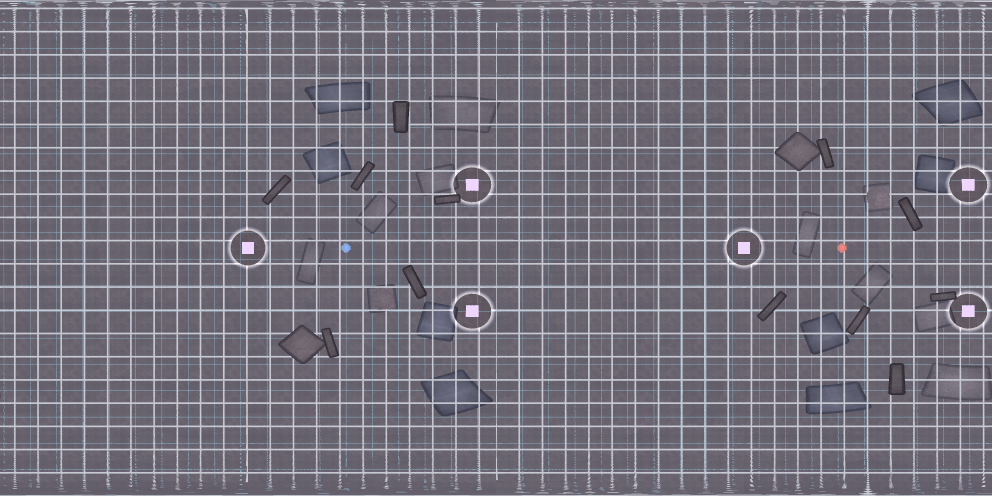
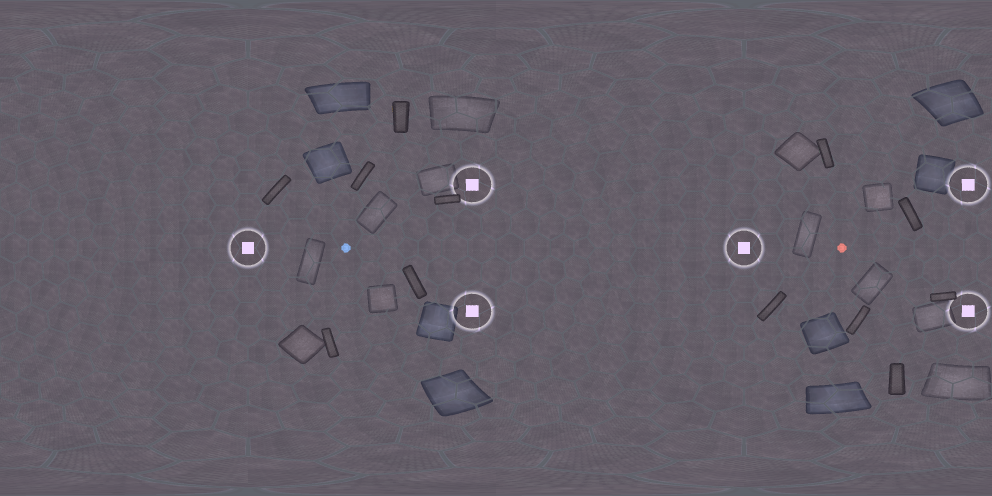
city_sphere_rust: hexagonal street and glass, dim frames, clearer glass, glowing terminals and LEDs (W-119, City Sphere demo)

Changed region(s): [[0.0, 0.0, 1.0, 1.0]]

diff --git a/demos/city_sphere_rust/src/render_city.rs b/demos/city_sphere_rust/src/render_city.rs
@@ -6,6 +6,7 @@
 //! Interface: `CityVertex`, `CityScene`, `build_scene`, `CityFrame`, `CityGpu`, `push_rounded_box`,
 //! `push_mesh`, `push_beam`, `MAX_HOLE_COUNT`.
 
+use std::collections::HashMap;
 use std::error::Error;
 use std::ptr::NonNull;
 use std::sync::Arc;
@@ -55,9 +56,27 @@ const NEAR_M: f32 = 0.05;
 const FAR_M: f32 = 200.0;
 const STREET_TILE_M: f64 = 4.0;
 const WALL_TILE_M: f64 = 3.0;
-const GLASS_CELL_M: f64 = 2.5;
-const SPHERE_LON_COUNT: usize = 128;
-const SPHERE_LAT_COUNT: usize = 64;
+const GLASS_FREQUENCY: usize = 7;
+const GLASS_SUBDIVISION_COUNT: usize = 2;
+const STREET_FREQUENCY: usize = 7;
+const STREET_SUBDIVISION_COUNT: usize = 3;
+const GLASS_KEY_PER_M: f64 = 1e6;
+const SCREEN_LAYER: f32 = -2.0;
+const LED_LAYER: f32 = -3.0;
+const ELECTRONICS_SALT: u32 = 0x5eed_e1ec;
+const ELECTRONICS_PER_BOX_MAX: usize = 3;
+const ELECTRONICS_OFFSET_M: f64 = 0.02;
+const BEZEL_M: f64 = 0.05;
+const BEZEL_COLOR: [f32; 4] = [0.03, 0.035, 0.04, 0.0];
+const SCREEN_HALF_M: [f64; 2] = [0.3, 0.2];
+const LED_HALF_M: f64 = 0.035;
+const LED_SPACING_M: f64 = 0.12;
+const LED_COUNT_MAX: usize = 5;
+const DETAIL_HEIGHT_M: [f64; 2] = [0.7, 1.8];
+const DETAIL_TOP_MARGIN_M: f64 = 0.35;
+const GLOW_PHASE_SPAN: f32 = 0.45;
+const SCREEN_COLORS: [[f32; 3]; 3] = [[0.15, 0.8, 0.9], [0.3, 0.9, 0.4], [0.95, 0.6, 0.15]];
+const LED_COLORS: [[f32; 3]; 3] = [[1.0, 0.15, 0.1], [0.2, 1.0, 0.3], [1.0, 0.7, 0.1]];
 const CORE_LON_COUNT: usize = 32;
 const CORE_LAT_COUNT: usize = 16;
 const SKY_COLOR: [f32; 4] = [0.05, 0.03, 0.08, 1.0];
@@ -112,6 +131,7 @@ pub struct CityFrame {
     pub camera_m: Vec3,
     pub tan_half_fov: f32,
     pub beacons: [[f32; 4]; BEACON_SLOT_COUNT],
+    pub time_s: f32,
     pub dynamic: Vec<CityVertex>,
     pub beams: Vec<CityVertex>,
 }
@@ -278,7 +298,18 @@ pub fn build_scene(world: &CityWorld) -> CityScene {
     let mut opaque: Vec<CityVertex> = Vec::new();
     let street = &world.materials[world.street_material as usize];
     let street_color: [f32; 4] = [street.color[0] * 2.4, street.color[1] * 2.4, street.color[2] * 2.4, 0.0];
-    push_sphere(&mut opaque, world.street_radius_m, true, (SPHERE_LON_COUNT, SPHERE_LAT_COUNT), STREET_TILE_M, street_color, LAYER_STREET);
+    let street_radius_m: f64 = world.street_radius_m;
+    push_goldberg(&mut opaque, street_radius_m, STREET_FREQUENCY, STREET_SUBDIVISION_COUNT, |d, edge_m, center, e1, e2| {
+        let p: DVec3 = d * street_radius_m;
+        let [r, g, b, _] = street_color;
+        CityVertex {
+            position: to_f32(p),
+            normal: to_f32(-d),
+            uv: [(p.dot(e1) / STREET_TILE_M) as f32, (p.dot(e2) / STREET_TILE_M + center.x) as f32],
+            color: [r, g, b, -(edge_m as f32)],
+            layer: LAYER_STREET,
+        }
+    });
     for (k, city_box) in world.boxes.iter().filter(|b| b.group != "consoles" && b.group != "pylons").enumerate() {
         let material = &world.materials[city_box.material as usize];
         let layer: f32 = get_layer(&material.name);
@@ -296,7 +327,14 @@ pub fn build_scene(world: &CityWorld) -> CityScene {
             let c = material.color;
             push_sphere(&mut opaque, shell.radius_m, false, (CORE_LON_COUNT, CORE_LAT_COUNT), 1.0, [c[0], c[1], c[2], 1.0], NO_LAYER);
         } else {
-            push_sphere(&mut glass, shell.radius_m, true, (SPHERE_LON_COUNT, SPHERE_LAT_COUNT), GLASS_CELL_M, GLASS_TINT, NO_LAYER);
+            let radius_m: f64 = shell.radius_m;
+            push_goldberg(&mut glass, radius_m, GLASS_FREQUENCY, GLASS_SUBDIVISION_COUNT, |d, edge_m, _, _, _| CityVertex {
+                position: to_f32(d * radius_m),
+                normal: to_f32(-d),
+                uv: [edge_m as f32, 0.0],
+                color: GLASS_TINT,
+                layer: NO_LAYER,
+            });
             glass_radius_m = shell.radius_m as f32;
             holes = shell
                 .holes
@@ -307,12 +345,157 @@ pub fn build_scene(world: &CityWorld) -> CityScene {
         }
     }
     push_pylon_beacons(&mut opaque, world);
+    push_electronics(&mut opaque, world);
     CityScene {
         id: 1,
         opaque,
         glass,
         holes,
         glass_radius_m,
+    }
+}
+
+/// `push_goldberg` adds a sphere of `radius_m` as a Goldberg polyhedron: hexagonal cells and 12
+/// pentagons, the cells of an icosahedron subdivided `frequency` times. Each cell is a fan of
+/// triangles from its centre, each split `subdivision_count` times to follow the sphere, and
+/// `make_vertex` makes each corner from its direction, its distance in metres from its cell's edge,
+/// and its cell's centre direction and two tangents.
+///
+/// Example: `push_goldberg(&mut glass, 17.0, 7, 2, |d, edge_m, _, _, _| make(d, edge_m));`
+fn push_goldberg(
+    out: &mut Vec<CityVertex>,
+    radius_m: f64,
+    frequency: usize,
+    subdivision_count: usize,
+    make_vertex: impl Fn(DVec3, f64, DVec3, DVec3, DVec3) -> CityVertex,
+) {
+    let phi: f64 = (1.0 + 5.0_f64.sqrt()) / 2.0;
+    let corners: [DVec3; 12] = [
+        [-1.0, phi, 0.0], [1.0, phi, 0.0], [-1.0, -phi, 0.0], [1.0, -phi, 0.0],
+        [0.0, -1.0, phi], [0.0, 1.0, phi], [0.0, -1.0, -phi], [0.0, 1.0, -phi],
+        [phi, 0.0, -1.0], [phi, 0.0, 1.0], [-phi, 0.0, -1.0], [-phi, 0.0, 1.0],
+    ]
+    .map(|c| DVec3::from_array(c).normalize());
+    let faces: [[usize; 3]; 20] = [
+        [0, 11, 5], [0, 5, 1], [0, 1, 7], [0, 7, 10], [0, 10, 11], [1, 5, 9], [5, 11, 4], [11, 10, 2], [10, 7, 6], [7, 1, 8],
+        [3, 9, 4], [3, 4, 2], [3, 2, 6], [3, 6, 8], [3, 8, 9], [4, 9, 5], [2, 4, 11], [6, 2, 10], [8, 6, 7], [9, 8, 1],
+    ];
+    let n: usize = frequency;
+    let mut ids: HashMap<[i64; 3], usize> = HashMap::new();
+    let mut centers: Vec<DVec3> = Vec::new();
+    let mut cell_corners: Vec<Vec<DVec3>> = Vec::new();
+    for [a, b, c] in faces.map(|f| f.map(|k| corners[k])) {
+        let mut grid: Vec<Vec<usize>> = Vec::new();
+        for i in 0..=n {
+            let mut row: Vec<usize> = Vec::new();
+            for j in 0..=n - i {
+                let d: DVec3 = (a + (b - a) * (i as f64 / n as f64) + (c - a) * (j as f64 / n as f64)).normalize();
+                let key: [i64; 3] = (d * GLASS_KEY_PER_M).round().as_i64vec3().to_array();
+                let id: usize = *ids.entry(key).or_insert_with(|| {
+                    centers.push(d);
+                    cell_corners.push(Vec::new());
+                    centers.len() - 1
+                });
+                row.push(id);
+            }
+            grid.push(row);
+        }
+        for i in 0..n {
+            for j in 0..n - i {
+                let mut triangles: Vec<[usize; 3]> = vec![[grid[i][j], grid[i + 1][j], grid[i][j + 1]]];
+                if i + j + 1 < n {
+                    triangles.push([grid[i + 1][j], grid[i + 1][j + 1], grid[i][j + 1]]);
+                }
+                for triangle in triangles {
+                    let corner: DVec3 = triangle.iter().map(|&k| centers[k]).sum::<DVec3>().normalize();
+                    for k in triangle {
+                        cell_corners[k].push(corner);
+                    }
+                }
+            }
+        }
+    }
+    let s: usize = subdivision_count;
+    for (center, mut rim) in centers.into_iter().zip(cell_corners) {
+        let e1: DVec3 = center.any_orthonormal_vector();
+        let e2: DVec3 = center.cross(e1);
+        rim.sort_by(|x, y| x.dot(e2).atan2(x.dot(e1)).total_cmp(&y.dot(e2).atan2(y.dot(e1))));
+        for k in 0..rim.len() {
+            let (a, b) = (rim[k], rim[(k + 1) % rim.len()]);
+            let apothem_m: f64 = (center - (a + b) / 2.0).length() * radius_m;
+            let corner = |p: usize, q: usize| -> CityVertex {
+                let (wa, wb) = (p as f64 / s as f64, q as f64 / s as f64);
+                let wc: f64 = 1.0 - wa - wb;
+                make_vertex((center * wc + a * wa + b * wb).normalize(), wc * apothem_m, center, e1, e2)
+            };
+            for p in 0..s {
+                for q in 0..s - p {
+                    out.extend([corner(p, q), corner(p + 1, q), corner(p, q + 1)]);
+                    if p + q + 1 < s {
+                        out.extend([corner(p + 1, q), corner(p + 1, q + 1), corner(p, q + 1)]);
+                    }
+                }
+            }
+        }
+    }
+}
+
+/// `push_electronics` adds small glowing station details on the side walls of the metal blocks
+/// and cover, placed from the map's variation seed: screens in a dark bezel and rows of status
+/// LEDs. Each carries a phase in its colour's alpha (1 to 1 + `GLOW_PHASE_SPAN`) and its kind in
+/// its layer, and the shader makes screens flicker and LEDs blink; they light nothing else.
+///
+/// Example: `push_electronics(&mut opaque, &world);`
+fn push_electronics(out: &mut Vec<CityVertex>, world: &CityWorld) {
+    let mut draw_count: usize = 0;
+    let mut next = || {
+        draw_count += 1;
+        f64::from(get_variation_frac(world.variation_seed ^ ELECTRONICS_SALT, draw_count))
+    };
+    for city_box in world.boxes.iter().filter(|b| b.group != "consoles" && b.group != "pylons") {
+        if get_layer(&world.materials[city_box.material as usize].name) < 0.0 {
+            continue;
+        }
+        let up: DVec3 = city_box.axes.y_axis;
+        let top_m: f64 = 2.0 * city_box.half_m.y - DETAIL_TOP_MARGIN_M;
+        let detail_count: usize = (next() * (ELECTRONICS_PER_BOX_MAX + 1) as f64) as usize;
+        for _ in 0..detail_count {
+            let side: usize = (next() * 4.0) as usize % 4;
+            let (normal, half_n, along, half_along) = match side {
+                0 => (city_box.axes.x_axis, city_box.half_m.x, city_box.axes.z_axis, city_box.half_m.z),
+                1 => (-city_box.axes.x_axis, city_box.half_m.x, city_box.axes.z_axis, city_box.half_m.z),
+                2 => (city_box.axes.z_axis, city_box.half_m.z, city_box.axes.x_axis, city_box.half_m.x),
+                _ => (-city_box.axes.z_axis, city_box.half_m.z, city_box.axes.x_axis, city_box.half_m.x),
+            };
+            let is_screen: bool = next() < 0.5;
+            let half_m: [f64; 2] = if is_screen { SCREEN_HALF_M } else { [LED_SPACING_M * LED_COUNT_MAX as f64 / 2.0, LED_HALF_M] };
+            let room_m: f64 = half_along - ROUND_RADIUS_M - half_m[0] - BEZEL_M;
+            let height_max_m: f64 = DETAIL_HEIGHT_M[1].min(top_m - half_m[1]);
+            if room_m <= 0.0 || height_max_m <= DETAIL_HEIGHT_M[0] {
+                continue;
+            }
+            let height_m: f64 = DETAIL_HEIGHT_M[0] + next() * (height_max_m - DETAIL_HEIGHT_M[0]);
+            let center: DVec3 = city_box.center + normal * (half_n + ELECTRONICS_OFFSET_M) + along * (room_m * (2.0 * next() - 1.0))
+                + up * (height_m - city_box.half_m.y);
+            let quad = |c: DVec3, half: [f64; 2], lift_m: f64| -> [DVec3; 4] {
+                let (x, y, z) = (along * half[0], up * half[1], normal * lift_m);
+                [c - x - y + z, c + x - y + z, c + x + y + z, c - x + y + z]
+            };
+            let pick = |colors: &[[f32; 3]; 3], frac: f64| colors[(frac * 3.0) as usize % 3];
+            push_quad(out, quad(center, [half_m[0] + BEZEL_M, half_m[1] + BEZEL_M], 0.0), [[0.0; 2]; 4], normal, BEZEL_COLOR, NO_LAYER);
+            if is_screen {
+                let [r, g, b] = pick(&SCREEN_COLORS, next());
+                let color: [f32; 4] = [r, g, b, 1.0 + GLOW_PHASE_SPAN * next() as f32];
+                push_quad(out, quad(center, half_m, ELECTRONICS_OFFSET_M), [[0.0, 0.0], [1.0, 0.0], [1.0, 1.0], [0.0, 1.0]], normal, color, SCREEN_LAYER);
+            } else {
+                for k in 0..LED_COUNT_MAX {
+                    let [r, g, b] = pick(&LED_COLORS, next());
+                    let color: [f32; 4] = [r, g, b, 1.0 + GLOW_PHASE_SPAN * next() as f32];
+                    let c: DVec3 = center + along * (LED_SPACING_M * (k as f64 - (LED_COUNT_MAX - 1) as f64 / 2.0));
+                    push_quad(out, quad(c, [LED_HALF_M; 2], ELECTRONICS_OFFSET_M), [[0.0; 2]; 4], normal, color, LED_LAYER);
+                }
+            }
+        }
     }
 }
 
@@ -559,7 +742,7 @@ impl CityGpu {
             core_light: CORE_LIGHT,
             ambient: AMBIENT,
             holes,
-            glass: [frame.scene.glass_radius_m, frame.scene.holes.len() as f32, 0.0, FOG_M],
+            glass: [frame.scene.glass_radius_m, frame.scene.holes.len() as f32, frame.time_s, FOG_M],
             sky_color: SKY_COLOR,
             beacons: frame.beacons,
         };
@@ -629,7 +812,7 @@ mod tests {
     //! | Behaviour | Test |
     //! | --- | --- |
     //! | The vertex layout matches the shader's (13 floats) | `vertex_is_13_floats` |
-    //! | The scene has the street, boxes, core and glass, and the lift holes | `scene_has_every_part` |
+    //! | The scene has the street, boxes, core, hexagonal glass, glowing details and lift holes | `scene_has_every_part` |
 
     use super::*;
 
@@ -642,8 +825,12 @@ mod tests {
     fn scene_has_every_part() {
         let world: CityWorld = CityWorld::Builtin().unwrap();
         let scene: CityScene = build_scene(&world);
-        assert!(scene.opaque.len() > SPHERE_LON_COUNT * SPHERE_LAT_COUNT * 6);
-        assert_eq!(scene.glass.len(), SPHERE_LON_COUNT * SPHERE_LAT_COUNT * 6);
+        let street_edge_count: usize = 60 * STREET_FREQUENCY * STREET_FREQUENCY;
+        assert!(scene.opaque.len() > street_edge_count * 3 * STREET_SUBDIVISION_COUNT * STREET_SUBDIVISION_COUNT);
+        let window_edge_count: usize = 60 * GLASS_FREQUENCY * GLASS_FREQUENCY;
+        assert_eq!(scene.glass.len(), window_edge_count * 3 * GLASS_SUBDIVISION_COUNT * GLASS_SUBDIVISION_COUNT);
+        assert!(scene.opaque.iter().any(|v| v.layer == SCREEN_LAYER));
+        assert!(scene.opaque.iter().any(|v| v.layer == LED_LAYER));
         assert_eq!(scene.holes.len(), 6);
     }
 }

diff --git a/demos/city_sphere_rust/src/city.rs b/demos/city_sphere_rust/src/city.rs
@@ -600,6 +600,7 @@ fn make_frame(
         camera_m: camera.as_vec3(),
         tan_half_fov: TAN_HALF_FOV,
         beacons,
+        time_s: now_s as f32,
         dynamic,
         beams: beam_vertices,
     }
